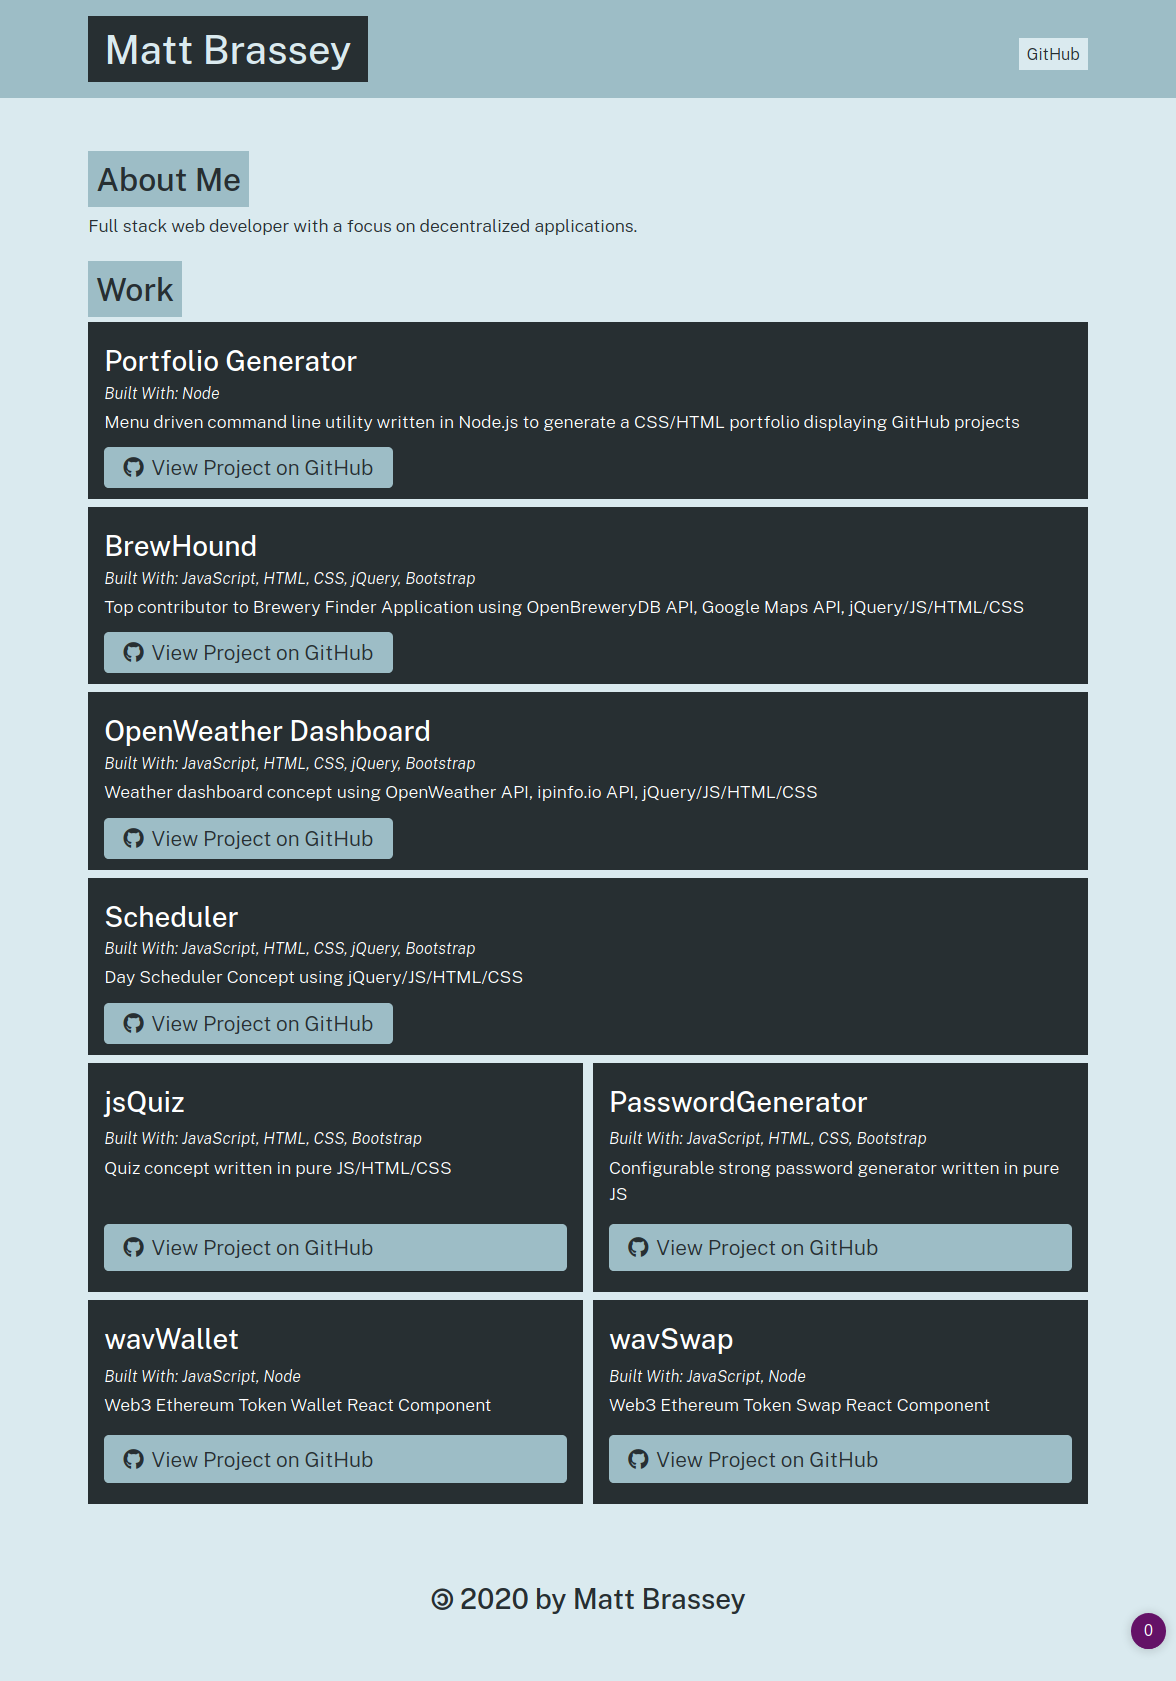
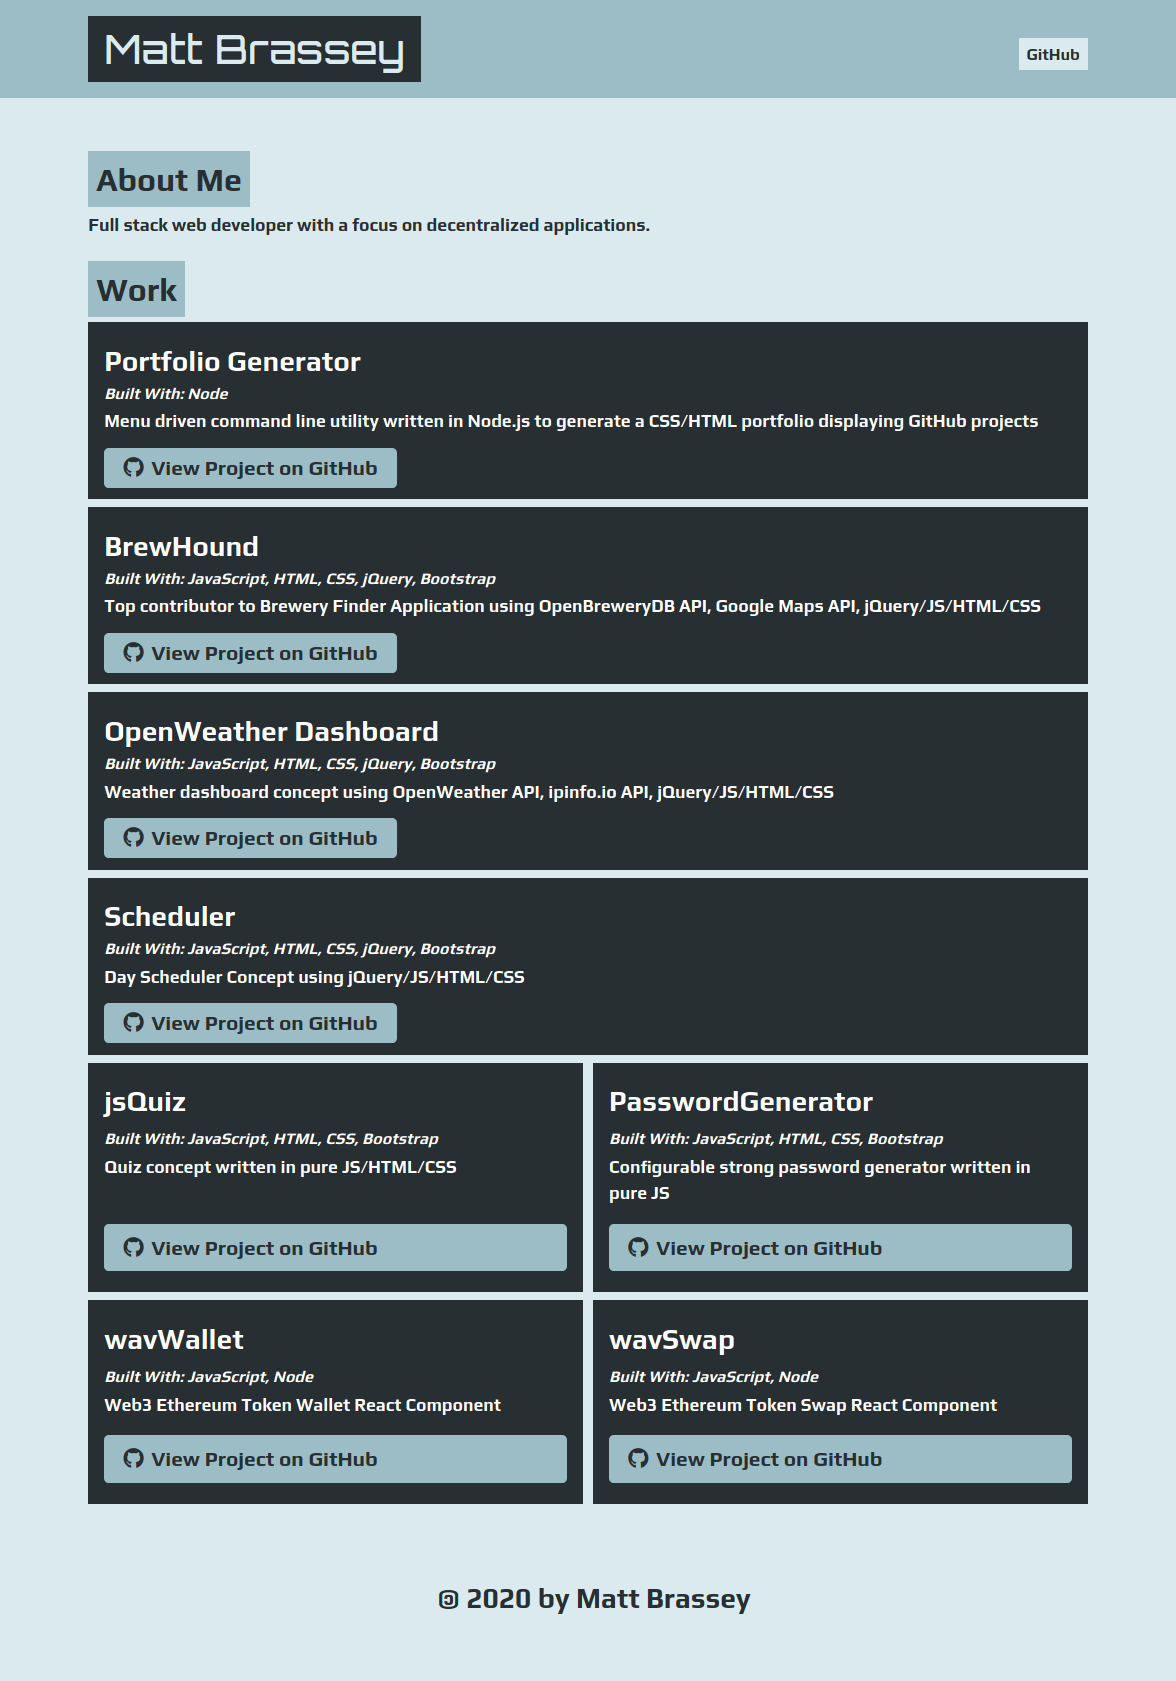
+ Fonts

diff --git a/src/page-template.js b/src/page-template.js
@@ -87,6 +87,9 @@ module.exports = (templateData) => {
   <meta charset="UTF-8">
   <meta name="viewport" content="width=device-width, initial-scale=1.0">
   <meta http-equiv="X-UA-Compatible" content="ie=edge">
+  <link href="https://fonts.googleapis.com/css2?family=Aldrich&display=swap" rel="stylesheet" />
+  <link href="https://fonts.googleapis.com/css2?family=Play:wght@700&display=swap" rel="stylesheet" />
+  <link href="https://fonts.googleapis.com/css2?family=Orbitron:wght@500&display=swap" rel="stylesheet" />
   <title>${header.name}</title>
   <link rel="stylesheet" href="https://cdnjs.cloudflare.com/ajax/libs/font-awesome/5.11.2/css/all.min.css">
   <link href="https://fonts.googleapis.com/css?family=Public+Sans:300i,300,500&display=swap" rel="stylesheet">

diff --git a/index.html b/index.html
@@ -6,6 +6,9 @@
   <meta charset="UTF-8">
   <meta name="viewport" content="width=device-width, initial-scale=1.0">
   <meta http-equiv="X-UA-Compatible" content="ie=edge">
+  <link href="https://fonts.googleapis.com/css2?family=Aldrich&display=swap" rel="stylesheet" />
+  <link href="https://fonts.googleapis.com/css2?family=Play:wght@700&display=swap" rel="stylesheet" />
+  <link href="https://fonts.googleapis.com/css2?family=Orbitron:wght@500&display=swap" rel="stylesheet" />
   <title>Matt Brassey</title>
   <link rel="stylesheet" href="https://cdnjs.cloudflare.com/ajax/libs/font-awesome/5.11.2/css/all.min.css">
   <link href="https://fonts.googleapis.com/css?family=Public+Sans:300i,300,500&display=swap" rel="stylesheet">

diff --git a/src/style.css b/src/style.css
@@ -20,7 +20,7 @@ body {
   background-color: var(--secondary);
   margin: 0;
   padding: 0;
-  font-family: "Public Sans", sans-serif;
+  font-family: "Play", sans-serif;
   font-weight: 300;
   color: var(--dark);
   line-height: 1.5;
@@ -101,6 +101,7 @@ nav a:hover {
   width: 100%;
   margin: 0;
   font-size: 2.5rem;
+  font-family: "Orbitron", sans-serif;
 }
 
 .portfolio-languages {

diff --git a/style.css b/style.css
@@ -20,7 +20,7 @@ body {
   background-color: var(--secondary);
   margin: 0;
   padding: 0;
-  font-family: "Public Sans", sans-serif;
+  font-family: "Play", sans-serif;
   font-weight: 300;
   color: var(--dark);
   line-height: 1.5;
@@ -101,6 +101,7 @@ nav a:hover {
   width: 100%;
   margin: 0;
   font-size: 2.5rem;
+  font-family: "Orbitron", sans-serif;
 }
 
 .portfolio-languages {
